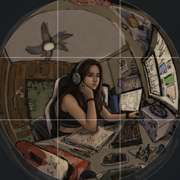
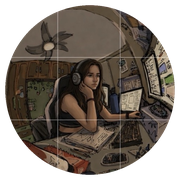
Icono redondo con fondo transparente

diff --git a/index.html b/index.html
@@ -5,7 +5,8 @@
   <meta name="viewport" content="width=device-width, initial-scale=1.0">
   <title>Angela Vivanco · Portfolio</title>
   <meta name="description" content="Portfolio de Angela Vivanco, desarrolladora de aplicaciones multiplataforma.">
-  <link rel="icon" type="image/png" href="img/icon.png">
+  <link rel="icon" type="image/png" sizes="32x32" href="img/icon-32.png">
+  <link rel="icon" type="image/png" sizes="180x180" href="img/icon.png">
   <link rel="apple-touch-icon" href="img/icon.png">
   <meta property="og:image" content="https://angelavivach.github.io/img/avatar.jpg">
   <link rel="preconnect" href="https://fonts.googleapis.com">
